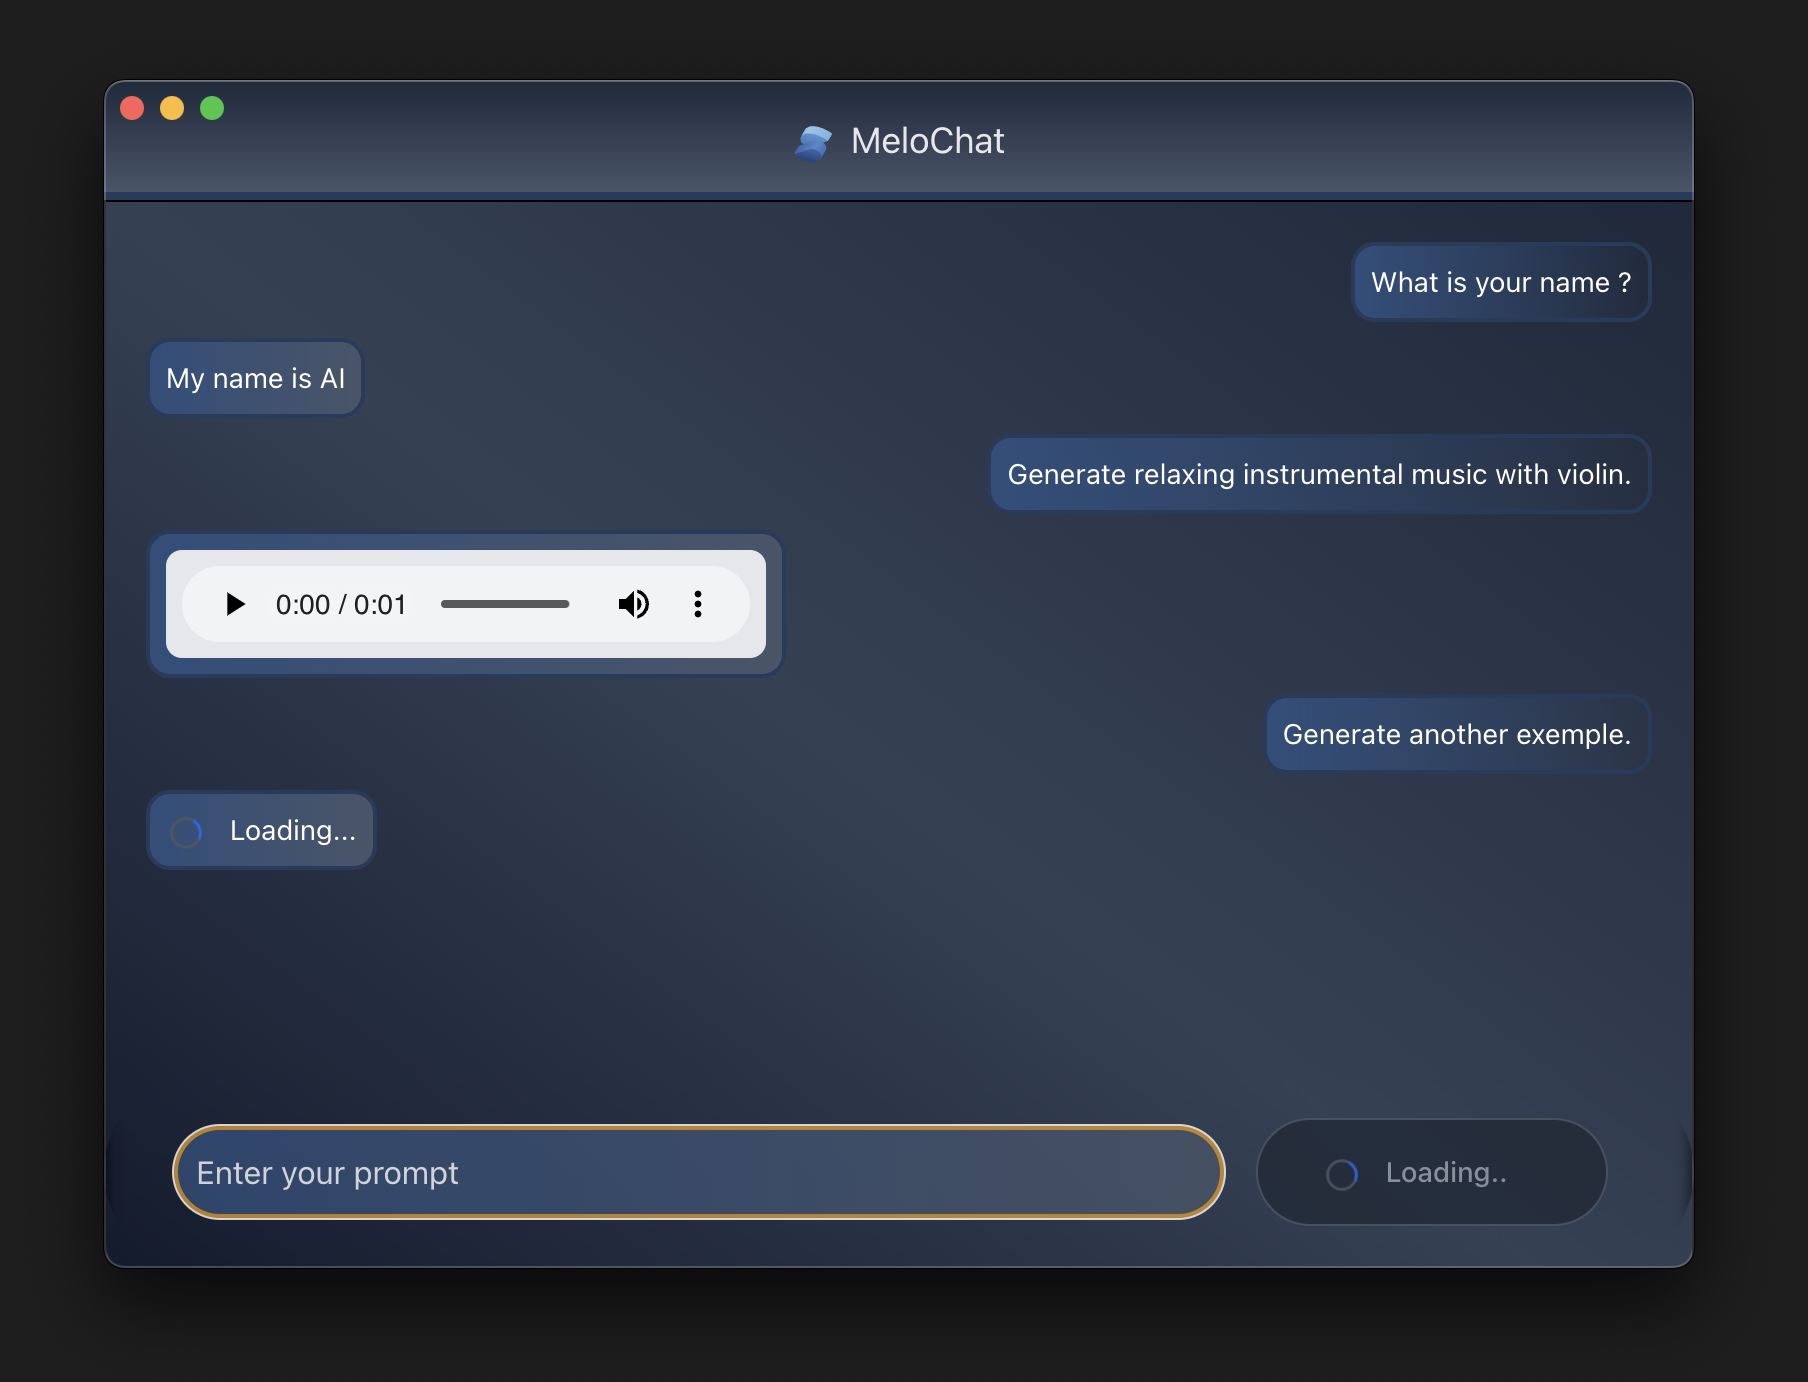
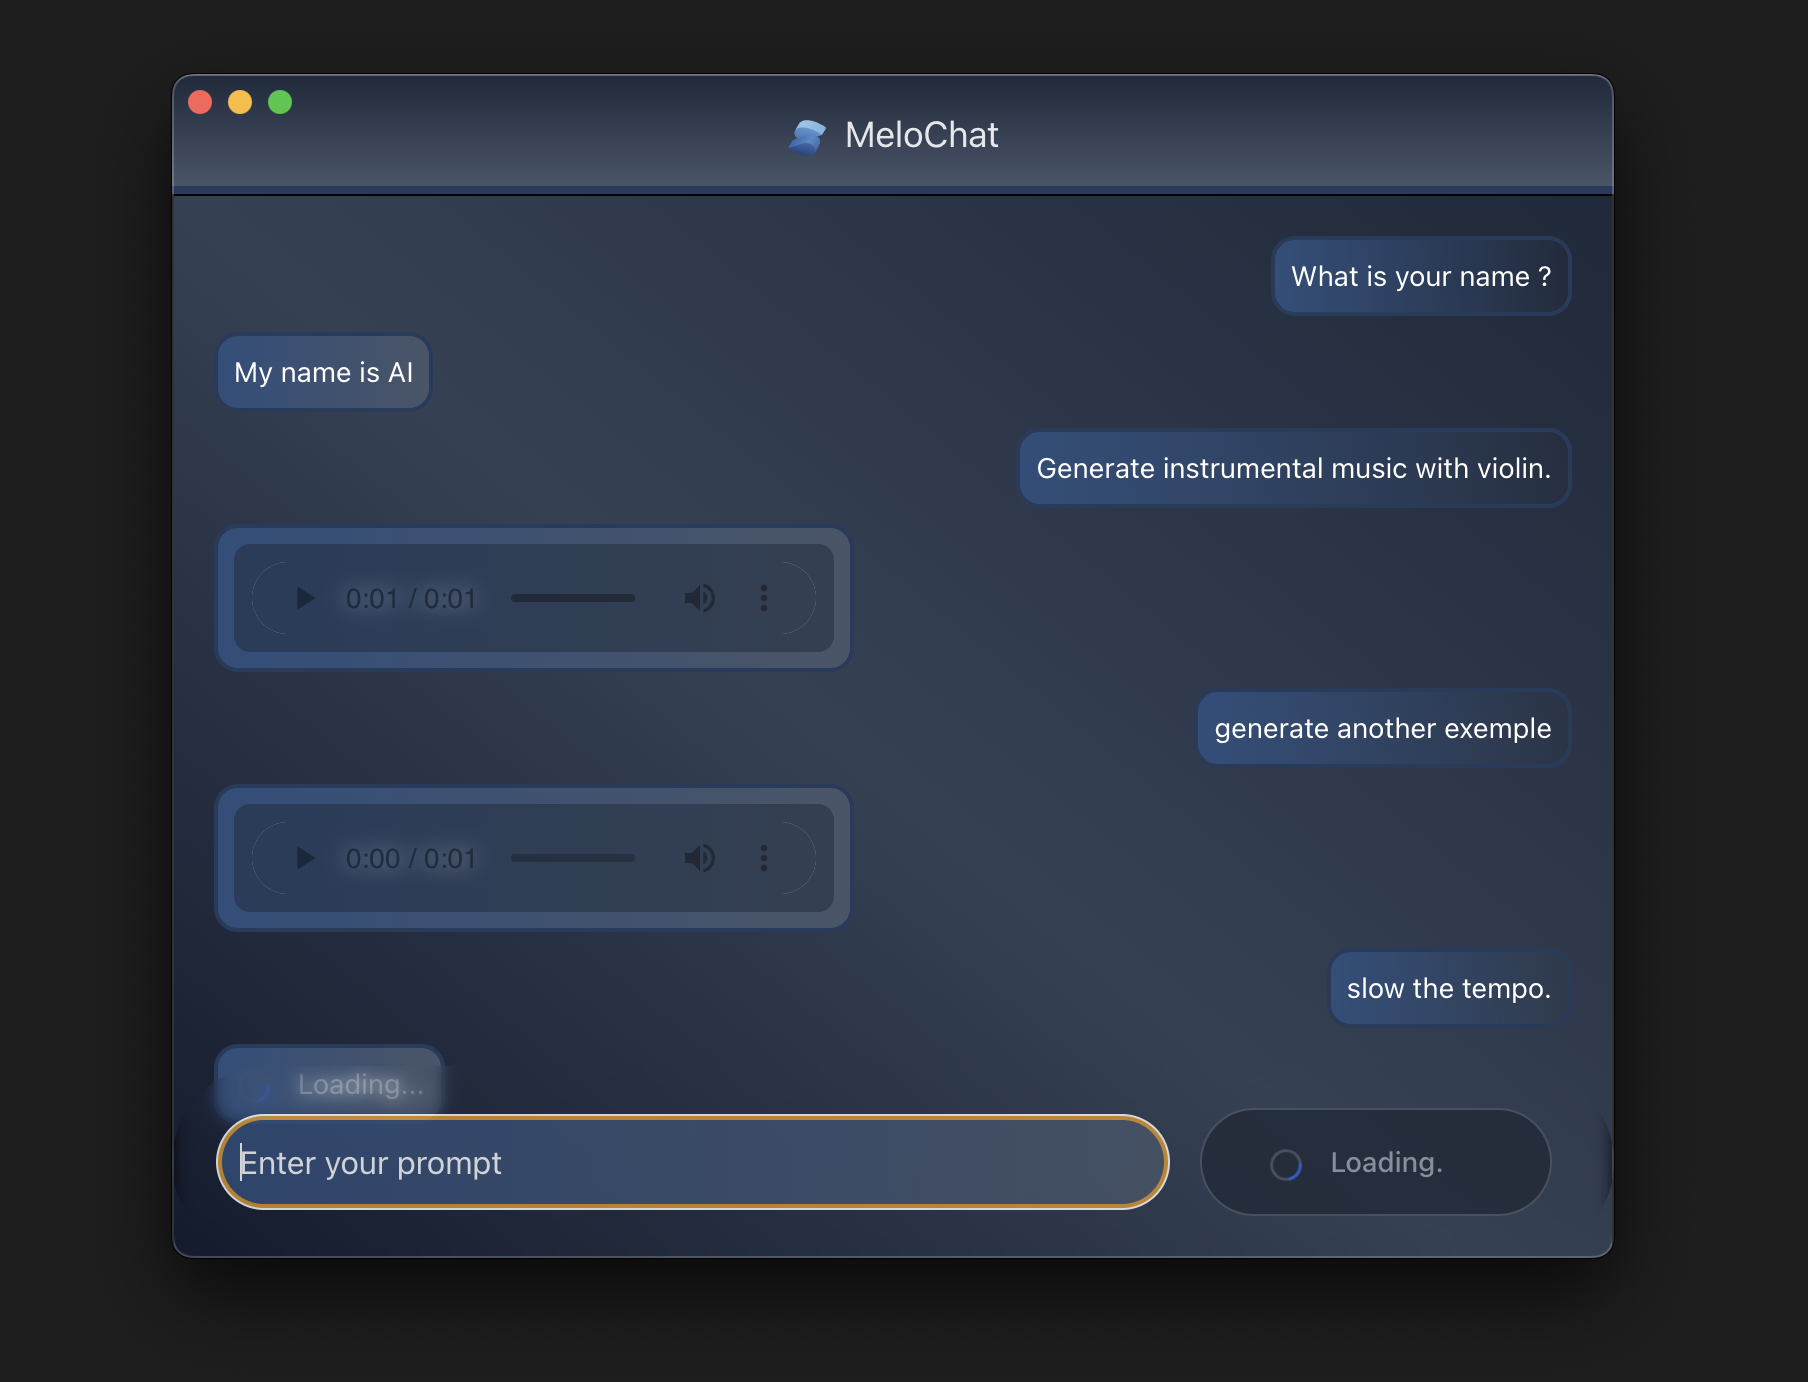
fix UI

Changed region(s): [[0.031, 0.0311, 0.9602, 0.9334], [0.7124, 0.6845, 0.8053, 0.7467], [0.7124, 0.809, 0.8363, 0.8712]]

diff --git a/chatbot-frontend/src/index.css b/chatbot-frontend/src/index.css
@@ -17,3 +17,45 @@ code {
   font-family: source-code-pro, Menlo, Monaco, Consolas, 'Courier New',
     monospace;
 }
+
+/* General Styling */
+audio {
+  background-color:  #000000; /* White background */
+  color: black;
+  opacity: 50%;
+  border: 1px solid  #1e293b; 
+  border-color: #1e293b;
+
+  /* width: 100%;  */
+}
+img, video, canvas, audio, iframe, embed, object {
+  background-color:  #1e293b !important /* White background */
+}
+
+/* WebKit (Chrome, Safari) */
+audio::-webkit-media-controls-panel {
+  background-color: #1e293b; /* White background for the controls */
+  opacity: 100%;
+}
+audio::-webkit-media-controls-play-button {
+  background-color: #1e293b; 
+  border: 0px;
+  opacity: 100%;
+}
+
+/* Firefox */
+audio::-moz-range-track {
+  background-color: #1e293b;
+  border: 0px;
+}
+audio::-moz-range-thumb {
+  background-color: #1e293b;
+}
+
+/* Internet Explorer and Edge */
+audio::-ms-fill-lower {
+  background-color: #343638; 
+}
+audio::-ms-fill-upper {
+  background-color: rgb(0, 0, 0); 
+}

diff --git a/README.md b/README.md
@@ -3,7 +3,10 @@
 MeloChat is an chatbot project that merges Golang, Python's Flask, and Solid.js to create a music-generating tool.
 
 
-<img src="./image_exemple.png" alt="app image" width="700"/>
+<figure>
+  <img src="./image_exemple.png" alt="App image" width="700"/>
+  <figcaption>Example of the app interface. (Duration is set to 1 sec for testing.)</figcaption>
+</figure>
 
 This app leverages the Audiocraft model to enhance its capabilities in generating music and delivering audio interactions. Acquire the Audiocraft Hugging Face model from [Hugging Face](https://huggingface.co/spaces/facebook/MusicGen/tree/main/audiocraft).
 
